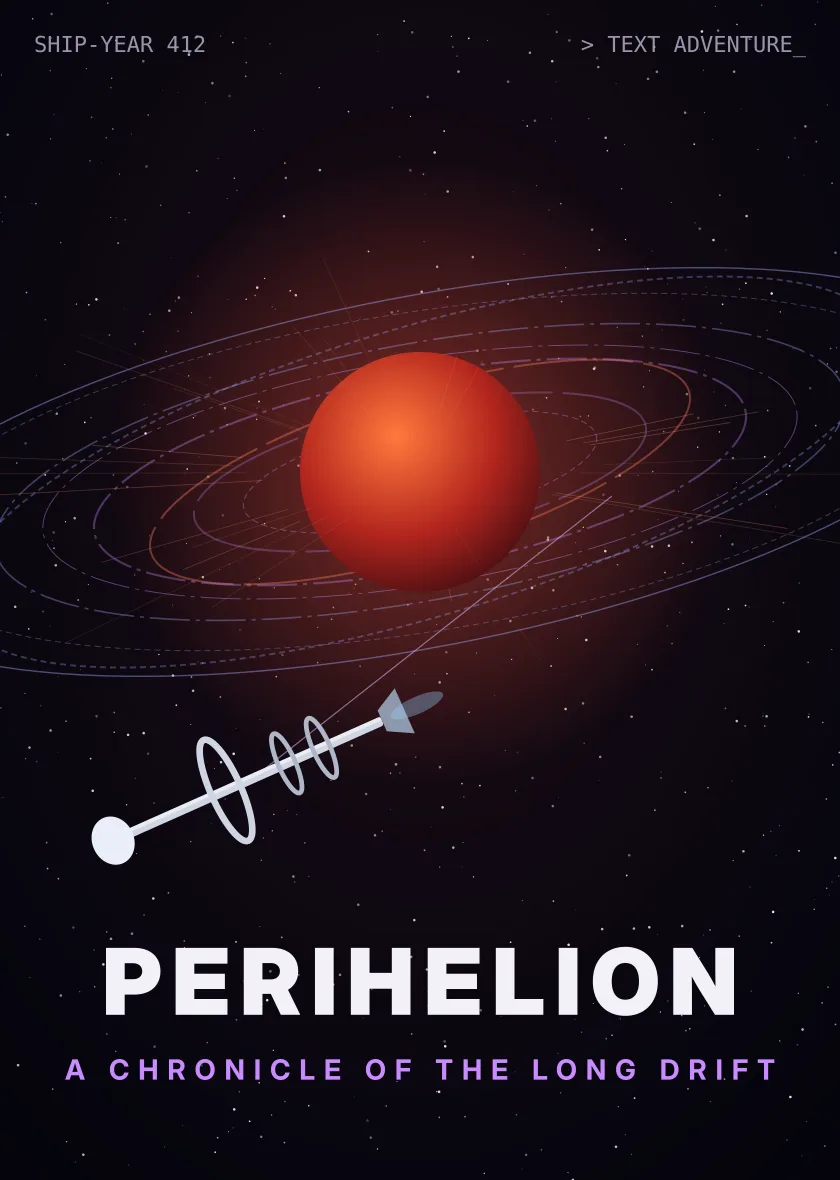
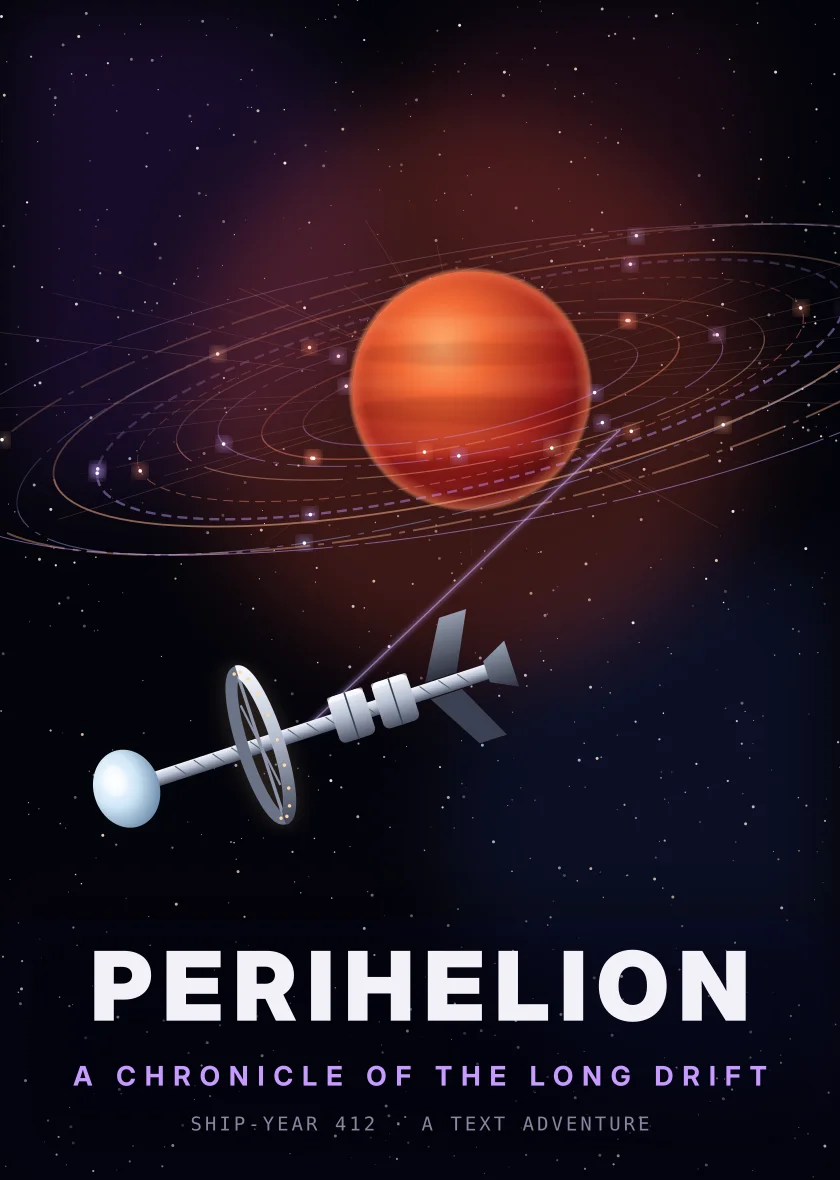
Perihelion box art redrawn
Claude-Session: https://claude.ai/code/session_01Y18XfvGSxgh6AHPy3Ccd35

diff --git a/art/poster_perihelion.py b/art/poster_perihelion.py
@@ -1,75 +1,163 @@
 """Box art for Perihelion: writes perihelion-poster.svg and perihelion-og.svg next to this file.
-Render with: node render.js perihelion"""
+Render them to public/perihelion-art.webp and public/og-perihelion.jpg with sharp (see render.js)."""
 import math
 import os
 import random
 
 HERE = os.path.dirname(os.path.abspath(__file__))
 
+DEFS = '''
+  <radialGradient id="dwarf" cx=".38" cy=".32" r=".8"><stop offset="0" stop-color="#ffb070"/><stop offset=".25" stop-color="#f26a35"/>
+    <stop offset=".65" stop-color="#9c1f1c"/><stop offset="1" stop-color="#2a0710"/></radialGradient>
+  <radialGradient id="rim" cx=".5" cy=".5" r=".5"><stop offset=".86" stop-color="#ff6a3d" stop-opacity="0"/>
+    <stop offset=".97" stop-color="#ff8a5c" stop-opacity=".55"/><stop offset="1" stop-color="#ff8a5c" stop-opacity="0"/></radialGradient>
+  <linearGradient id="hull" x1="0" y1="0" x2="0" y2="1"><stop offset="0" stop-color="#f4f7fc"/><stop offset=".45" stop-color="#b9c2d3"/>
+    <stop offset="1" stop-color="#4a5163"/></linearGradient>
+  <linearGradient id="hullDark" x1="0" y1="0" x2="0" y2="1"><stop offset="0" stop-color="#9aa3b5"/><stop offset="1" stop-color="#2c3140"/></linearGradient>
+  <radialGradient id="ice" cx=".35" cy=".35" r=".7"><stop offset="0" stop-color="#ffffff"/><stop offset=".5" stop-color="#cfe6f7"/>
+    <stop offset="1" stop-color="#6f8fae"/></radialGradient>
+  <linearGradient id="plume" x1="0" y1="0" x2="1" y2="0"><stop offset="0" stop-color="#ffffff"/><stop offset=".15" stop-color="#9fd4ff"/>
+    <stop offset=".6" stop-color="#5a7dff" stop-opacity=".45"/><stop offset="1" stop-color="#5a7dff" stop-opacity="0"/></linearGradient>
+  <filter id="blur6"><feGaussianBlur stdDeviation="6"/></filter>
+  <filter id="blur2"><feGaussianBlur stdDeviation="2"/></filter>
+  <filter id="blur40" x="-50%" y="-50%" width="200%" height="200%"><feGaussianBlur stdDeviation="40"/></filter>
+'''
 
-def scene(w, h, cx, cy, r, rnd, ship_x, ship_y, ship_s, title):
-    stars = ''.join('<circle cx="%.1f" cy="%.1f" r="%.2f" fill="#fff" fill-opacity="%.2f"/>' % (
-        rnd.uniform(0, w), rnd.uniform(0, h), rnd.choice([0.5, 0.7, 0.9, 1.3]), rnd.uniform(0.2, 0.9)) for _ in range(int(w * h / 1400)))
-    rings = []
-    for i in range(9):  # the Lattice: tilted rings within rings around the Anvil
-        rx, ry, rot = r * (1.5 + i * 0.42), r * (0.42 + i * 0.13), -14 + rnd.uniform(-5, 5)
-        rings.append('<ellipse cx="%.1f" cy="%.1f" rx="%.1f" ry="%.1f" transform="rotate(%.1f %.1f %.1f)" fill="none" '
-                     'stroke="%s" stroke-opacity="%.2f" stroke-width="%.1f" stroke-dasharray="%s"/>' % (
-                         cx, cy, rx, ry, rot, cx, cy, rnd.choice(['#ff7a5c', '#c98bff', '#9aa8ff']), rnd.uniform(.18, .5),
-                         rnd.uniform(.8, 2.2), rnd.choice(['', '40 6 4 6', '120 10', '6 4'])))
-    for i in range(26):  # filaments
-        a = rnd.uniform(0, math.pi * 2)
-        r1, r2 = r * rnd.uniform(1.2, 1.6), r * rnd.uniform(2.6, 5.2)
-        rings.append('<line x1="%.1f" y1="%.1f" x2="%.1f" y2="%.1f" stroke="#ff9a7a" stroke-opacity="%.2f" stroke-width=".8"/>' % (
-            cx + r1 * math.cos(a), cy + r1 * math.sin(a) * .35, cx + r2 * math.cos(a), cy + r2 * math.sin(a) * .35, rnd.uniform(.08, .3)))
-    sx, sy, s = ship_x, ship_y, ship_s
-    ship = f'''
-  <line x1="{sx}" y1="{sy}" x2="{cx + r * 1.6}" y2="{cy + r * .2}" stroke="#d6b8ff" stroke-opacity=".55" stroke-width="1.2"/>
-  <g transform="translate({sx} {sy}) rotate(-24) scale({s})">
-    <rect x="-150" y="-5" width="300" height="10" rx="3" fill="#cfd6e4"/>
-    <rect x="-150" y="-5" width="300" height="4" fill="#ffffff" fill-opacity=".55"/>
-    <ellipse cx="-160" cy="0" rx="22" ry="26" fill="#e9eef7"/>
-    <ellipse cx="-30" cy="0" rx="16" ry="58" fill="none" stroke="#cfd6e4" stroke-width="7"/>
-    <ellipse cx="40" cy="0" rx="9" ry="34" fill="none" stroke="#aeb7c8" stroke-width="5"/>
-    <ellipse cx="80" cy="0" rx="9" ry="34" fill="none" stroke="#aeb7c8" stroke-width="5"/>
-    <path d="M150 -12 L176 -26 L176 26 L150 12 Z" fill="#8e98ab"/>
-    <ellipse cx="190" cy="0" rx="30" ry="9" fill="#9fd0ff" fill-opacity=".35"/>
-  </g>'''
-    return f'''<svg xmlns="http://www.w3.org/2000/svg" width="{w}" height="{h}" viewBox="0 0 {w} {h}">
-  <defs>
-    <radialGradient id="bg" cx="{cx / w}" cy="{cy / h}" r="1"><stop offset="0" stop-color="#1d0b14"/><stop offset=".6" stop-color="#07060f"/><stop offset="1" stop-color="#020208"/></radialGradient>
-    <radialGradient id="dwarf" cx=".4" cy=".35" r=".75"><stop offset="0" stop-color="#ff7a3d"/><stop offset=".55" stop-color="#b3261e"/><stop offset="1" stop-color="#3a0a10"/></radialGradient>
-    <radialGradient id="halo" cx="{cx}" cy="{cy}" r="{r * 2.6}" gradientUnits="userSpaceOnUse"><stop offset="0" stop-color="#ff5a3d" stop-opacity=".45"/><stop offset="1" stop-color="#ff5a3d" stop-opacity="0"/></radialGradient>
-  </defs>
-  <rect width="{w}" height="{h}" fill="url(#bg)"/>
-  <g>{stars}</g>
-  <circle cx="{cx}" cy="{cy}" r="{r * 2.6}" fill="url(#halo)"/>
-  <g>{''.join(rings[:len(rings) // 2])}</g>
+
+def ellipse_arc(cx, cy, rx, ry, rot, back):
+    """Half of a tilted ellipse: the back half (behind the dwarf) or the front half."""
+    a0, a1 = (math.pi, 2 * math.pi) if back else (0, math.pi)
+    pts = []
+    for i in range(61):
+        a = a0 + (a1 - a0) * i / 60
+        x, y = rx * math.cos(a), ry * math.sin(a)
+        c, s = math.cos(math.radians(rot)), math.sin(math.radians(rot))
+        pts.append((cx + x * c - y * s, cy + x * s + y * c))
+    return 'M' + ' L'.join('%.1f %.1f' % p for p in pts)
+
+
+def lattice(cx, cy, r, rnd, back):
+    out = []
+    rr = random.Random(99)
+    for i in range(10):
+        rx, ry, rot = r * (1.45 + i * 0.36), r * (0.36 + i * 0.09), -12 + rr.uniform(-3, 3)
+        col = rr.choice(['#ff8a6a', '#c79bff', '#9fb0ff', '#ffb38a'])
+        dash = rr.choice(['none', '60 8 6 8', '140 14', '10 6', '220 6 20 6'])
+        op = (0.28 if back else 0.55) * rr.uniform(.6, 1)
+        d = ellipse_arc(cx, cy, rx, ry, rot, back)
+        out.append(f'<path d="{d}" fill="none" stroke="{col}" stroke-opacity="{op:.2f}" stroke-width="{rr.uniform(.8, 2.4):.1f}" '
+                   f'stroke-dasharray="{dash}"/>')
+        for k in range(rr.randint(1, 3)):  # glowing nodes travelling along the ring
+            a = rr.uniform(math.pi, 2 * math.pi) if back else rr.uniform(0, math.pi)
+            x, y = rx * math.cos(a), ry * math.sin(a)
+            c, s = math.cos(math.radians(rot)), math.sin(math.radians(rot))
+            px, py = cx + x * c - y * s, cy + x * s + y * c
+            out.append(f'<circle cx="{px:.1f}" cy="{py:.1f}" r="7" fill="{col}" opacity=".6" filter="url(#blur6)"/>'
+                       f'<circle cx="{px:.1f}" cy="{py:.1f}" r="1.8" fill="#fff"/>')
+    if back:
+        for i in range(34):  # filaments radiating out from the dwarf
+            a = rr.uniform(0, math.pi * 2)
+            r1, r2 = r * rr.uniform(1.15, 1.5), r * rr.uniform(2.6, 5.4)
+            out.append('<line x1="%.1f" y1="%.1f" x2="%.1f" y2="%.1f" stroke="#ffb08a" stroke-opacity="%.2f" stroke-width=".7"/>' % (
+                cx + r1 * math.cos(a), cy + r1 * math.sin(a) * .3, cx + r2 * math.cos(a), cy + r2 * math.sin(a) * .3,
+                rr.uniform(.06, .22)))
+    return ''.join(out)
+
+
+def dwarf(cx, cy, r):
+    bands = ''.join(
+        f'<ellipse cx="{cx}" cy="{cy + r * o:.1f}" rx="{r * 1.05:.1f}" ry="{r * w:.1f}" fill="{c}" opacity="{a}"/>'
+        for o, w, c, a in [(-.55, .07, '#ffcf9a', .1), (-.3, .1, '#5a0f14', .15), (-.05, .06, '#ffb27a', .08),
+                           (.18, .12, '#4a0a12', .17), (.45, .08, '#ff9a6a', .07), (.68, .1, '#300610', .2)])
+    return f'''
+  <circle cx="{cx}" cy="{cy}" r="{r * 2.4}" fill="#ff5a3d" opacity=".22" filter="url(#blur40)"/>
+  <clipPath id="dclip"><circle cx="{cx}" cy="{cy}" r="{r}"/></clipPath>
   <circle cx="{cx}" cy="{cy}" r="{r}" fill="url(#dwarf)"/>
-  <g>{''.join(rings[len(rings) // 2:])}</g>
-  {ship}
+  <g clip-path="url(#dclip)" filter="url(#blur2)">{bands}</g>
+  <circle cx="{cx}" cy="{cy}" r="{r * 1.04}" fill="url(#rim)"/>'''
+
+
+def ship(x, y, s, rot):
+    """The ark, bow (ice shield) to the left, fusion torch to the right."""
+    windows = ''.join(f'<rect x="{-62 + i * 8}" y="-62" width="3" height="2" fill="#ffd9a0" opacity=".9"/>' for i in range(0))
+    ring_lights = ''.join(
+        f'<circle cx="{-40 + 16 * math.cos(a):.1f}" cy="{70 * math.sin(a):.1f}" r="1.6" fill="#ffd9a0"/>'
+        for a in [i * math.pi / 9 for i in range(18)] if math.cos(a) > -0.2)
+    trusses = ''.join(f'<line x1="{-120 + i * 18}" y1="-6" x2="{-111 + i * 18}" y2="6" stroke="#5c6476" stroke-width="1"/>'
+                      for i in range(16))
+    return f'''
+  <g transform="translate({x} {y}) rotate({rot}) scale({s})">
+    <!-- the torch has been cold for 260 years: only a faint glow of the habitat lights -->
+    <ellipse cx="-40" cy="0" rx="26" ry="80" fill="#ffcf8a" opacity=".12" filter="url(#blur6)"/>
+    <!-- radiator fins -->
+    <path d="M120 -8 L150 -60 L176 -60 L150 -8 Z" fill="url(#hullDark)" opacity=".95"/>
+    <path d="M120 8 L150 60 L176 60 L150 8 Z" fill="#3a4152"/>
+    <!-- spine -->
+    <rect x="-150" y="-7" width="330" height="14" rx="4" fill="url(#hull)"/>
+    {trusses}
+    <!-- cryo drums -->
+    <rect x="30" y="-22" width="34" height="44" rx="6" fill="url(#hull)"/><rect x="30" y="-22" width="34" height="5" rx="2" fill="#ffffff" opacity=".6"/>
+    <rect x="72" y="-22" width="34" height="44" rx="6" fill="url(#hull)"/><rect x="72" y="-22" width="34" height="5" rx="2" fill="#ffffff" opacity=".6"/>
+    <line x1="47" y1="-22" x2="47" y2="22" stroke="#3a4152" stroke-width="1.5"/><line x1="89" y1="-22" x2="89" y2="22" stroke="#3a4152" stroke-width="1.5"/>
+    <!-- engine bell -->
+    <path d="M176 -10 L200 -22 L200 22 L176 10 Z" fill="url(#hullDark)"/>
+    <!-- habitat ring: back half, spokes, front half -->
+    <path d="M-40 -70 A16 70 0 0 0 -40 70" fill="none" stroke="#6b7386" stroke-width="11"/>
+    <line x1="-40" y1="-66" x2="-40" y2="66" stroke="#8c95a8" stroke-width="3"/>
+    <line x1="-46" y1="-40" x2="-34" y2="40" stroke="#8c95a8" stroke-width="2"/>
+    <path d="M-40 -70 A16 70 0 0 1 -40 70" fill="none" stroke="url(#hull)" stroke-width="12"/>
+    {ring_lights}
+    <!-- the ice shield at the bow -->
+    <ellipse cx="-168" cy="0" rx="30" ry="36" fill="url(#ice)"/>
+    <ellipse cx="-176" cy="-10" rx="10" ry="14" fill="#ffffff" opacity=".55" filter="url(#blur2)"/>
+  </g>'''
+
+
+def scene(w, h, cx, cy, r, seed, ship_xy, ship_s, ship_rot, tether_to, title):
+    rnd = random.Random(seed)
+    stars = ''.join('<circle cx="%.1f" cy="%.1f" r="%.2f" fill="%s" fill-opacity="%.2f"/>' % (
+        rnd.uniform(0, w), rnd.uniform(0, h), rnd.choice([0.5, 0.6, 0.8, 1.1, 1.5]),
+        rnd.choice(['#ffffff', '#ffffff', '#cfd8ff', '#ffe2c8']), rnd.uniform(0.25, 0.95)) for _ in range(int(w * h / 1100)))
+    nebula = ''.join(f'<circle cx="{nx}" cy="{ny}" r="{nr}" fill="{nc}" opacity="{no}" filter="url(#blur40)"/>'
+                     for nx, ny, nr, nc, no in [(w * .15, h * .2, w * .3, '#5b2a8c', .22), (w * .85, h * .7, w * .32, '#2a3a8c', .2),
+                                                (w * .7, h * .12, w * .2, '#8c2a4a', .16)])
+    sx, sy = ship_xy
+    tx, ty = tether_to
+    tether = (f'<line x1="{sx}" y1="{sy}" x2="{tx}" y2="{ty}" stroke="#e2c8ff" stroke-opacity=".5" stroke-width="1.4"/>'
+              f'<line x1="{sx}" y1="{sy}" x2="{tx}" y2="{ty}" stroke="#c79bff" stroke-opacity=".35" stroke-width="5" filter="url(#blur2)"/>')
+    return f'''<svg xmlns="http://www.w3.org/2000/svg" width="{w}" height="{h}" viewBox="0 0 {w} {h}">
+  <defs>{DEFS}</defs>
+  <rect width="{w}" height="{h}" fill="#04040b"/>
+  {nebula}
+  <g>{stars}</g>
+  {lattice(cx, cy, r, rnd, True)}
+  {dwarf(cx, cy, r)}
+  {lattice(cx, cy, r, rnd, False)}
+  {tether}
+  {ship(sx, sy, ship_s, ship_rot)}
   {title}
 </svg>'''
 
 
 def poster():
     w, h = 840, 1180
-    title = f'''<text x="{w / 2}" y="{h * 0.86}" text-anchor="middle" font-family="Inter Display" font-weight="900" font-size="92" letter-spacing="10" fill="#f3f1f8">PERIHELION</text>
-  <text x="{w / 2}" y="{h * 0.915}" text-anchor="middle" font-family="Inter Display" font-weight="700" font-size="28" letter-spacing="9" fill="#c98bff">A CHRONICLE OF THE LONG DRIFT</text>
-  <text x="34" y="52" font-family="DejaVu Sans Mono" font-size="22" fill="#9a95ab">SHIP-YEAR 412</text>
-  <text x="{w - 34}" y="52" text-anchor="end" font-family="DejaVu Sans Mono" font-size="22" fill="#9a95ab">&gt; TEXT ADVENTURE_</text>'''
-    return scene(w, h, w * .5, h * .4, 120, random.Random(412), w * .3, h * .66, .95, title)
+    title = f'''
+  <rect y="{h * .78}" width="{w}" height="{h * .22}" fill="#04040b" opacity=".5" filter="url(#blur40)"/>
+  <text x="{w / 2}" y="{h * 0.865}" text-anchor="middle" font-family="Inter Display" font-weight="900" font-size="96" letter-spacing="10" fill="#f3f1f8">PERIHELION</text>
+  <text x="{w / 2}" y="{h * 0.92}" text-anchor="middle" font-family="Inter Display" font-weight="700" font-size="27" letter-spacing="9" fill="#c79bff">A CHRONICLE OF THE LONG DRIFT</text>
+  <text x="{w / 2}" y="{h * 0.958}" text-anchor="middle" font-family="DejaVu Sans Mono" font-size="19" letter-spacing="3" fill="#8a85a0">SHIP-YEAR 412 · A TEXT ADVENTURE</text>'''
+    return scene(w, h, w * .56, h * .33, 118, 412, (w * .36, h * .62), 1.1, -18, (w * .56 + 150, h * .33 + 40), title)
 
 
 def og():
     w, h = 1200, 630
-    title = '''<rect width="560" height="630" fill="#02030a" fill-opacity=".55"/>
-  <text x="70" y="150" font-family="DejaVu Sans Mono" font-size="26" fill="#c98bff">&gt; text adventure · Z-machine</text>
+    title = '''<rect width="600" height="630" fill="#04040b" opacity=".6" filter="url(#blur40)"/>
+  <text x="70" y="150" font-family="DejaVu Sans Mono" font-size="26" fill="#c79bff">&gt; text adventure · Z-machine</text>
   <text x="66" y="265" font-family="Inter Display" font-weight="900" font-size="96" fill="#f3f1f8">Perihelion</text>
-  <text x="70" y="340" font-family="Inter" font-size="30" fill="#9a95ab">A derelict ark. An alien song.</text>
-  <text x="70" y="382" font-family="Inter" font-size="30" fill="#9a95ab">Nineteen chapters of lore.</text>
+  <text x="70" y="340" font-family="Inter" font-size="30" fill="#a8a3bd">A derelict ark. An alien song.</text>
+  <text x="70" y="382" font-family="Inter" font-size="30" fill="#a8a3bd">Nineteen chapters of lore.</text>
   <text x="70" y="560" font-family="Inter Display" font-weight="700" font-size="28" fill="#ff8a6a">davyschroeder.nl</text>'''
-    return scene(w, h, 880, 300, 95, random.Random(7), 760, 480, .7, title)
+    return scene(w, h, 900, 250, 92, 7, (800, 470), .62, -16, (980, 290), title)
 
 
 if __name__ == '__main__':
